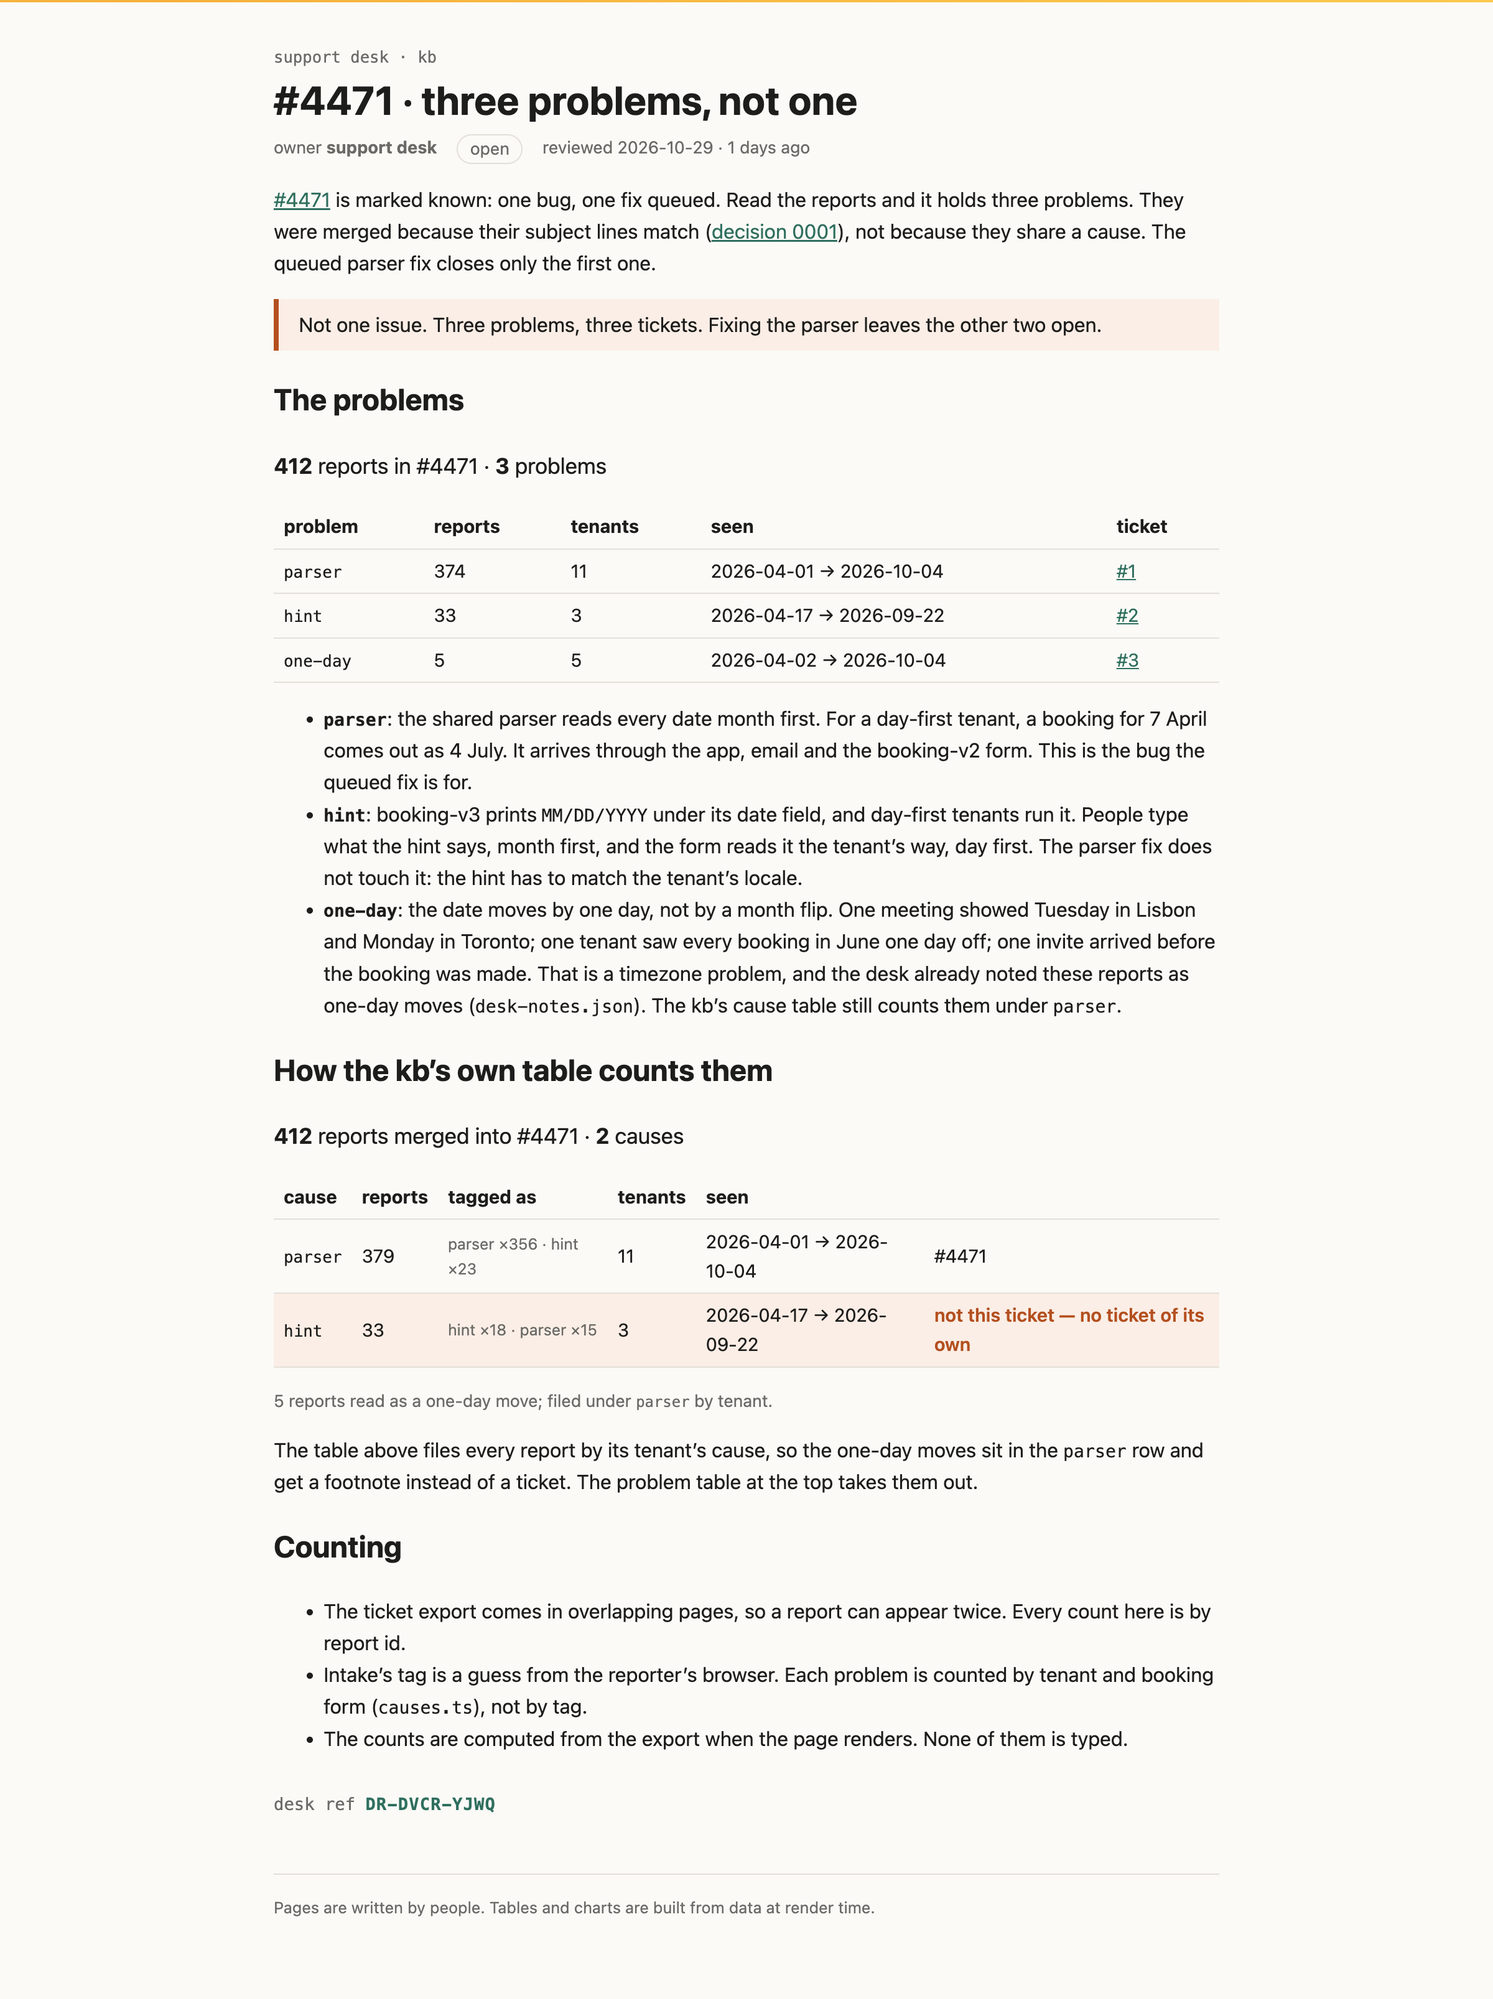
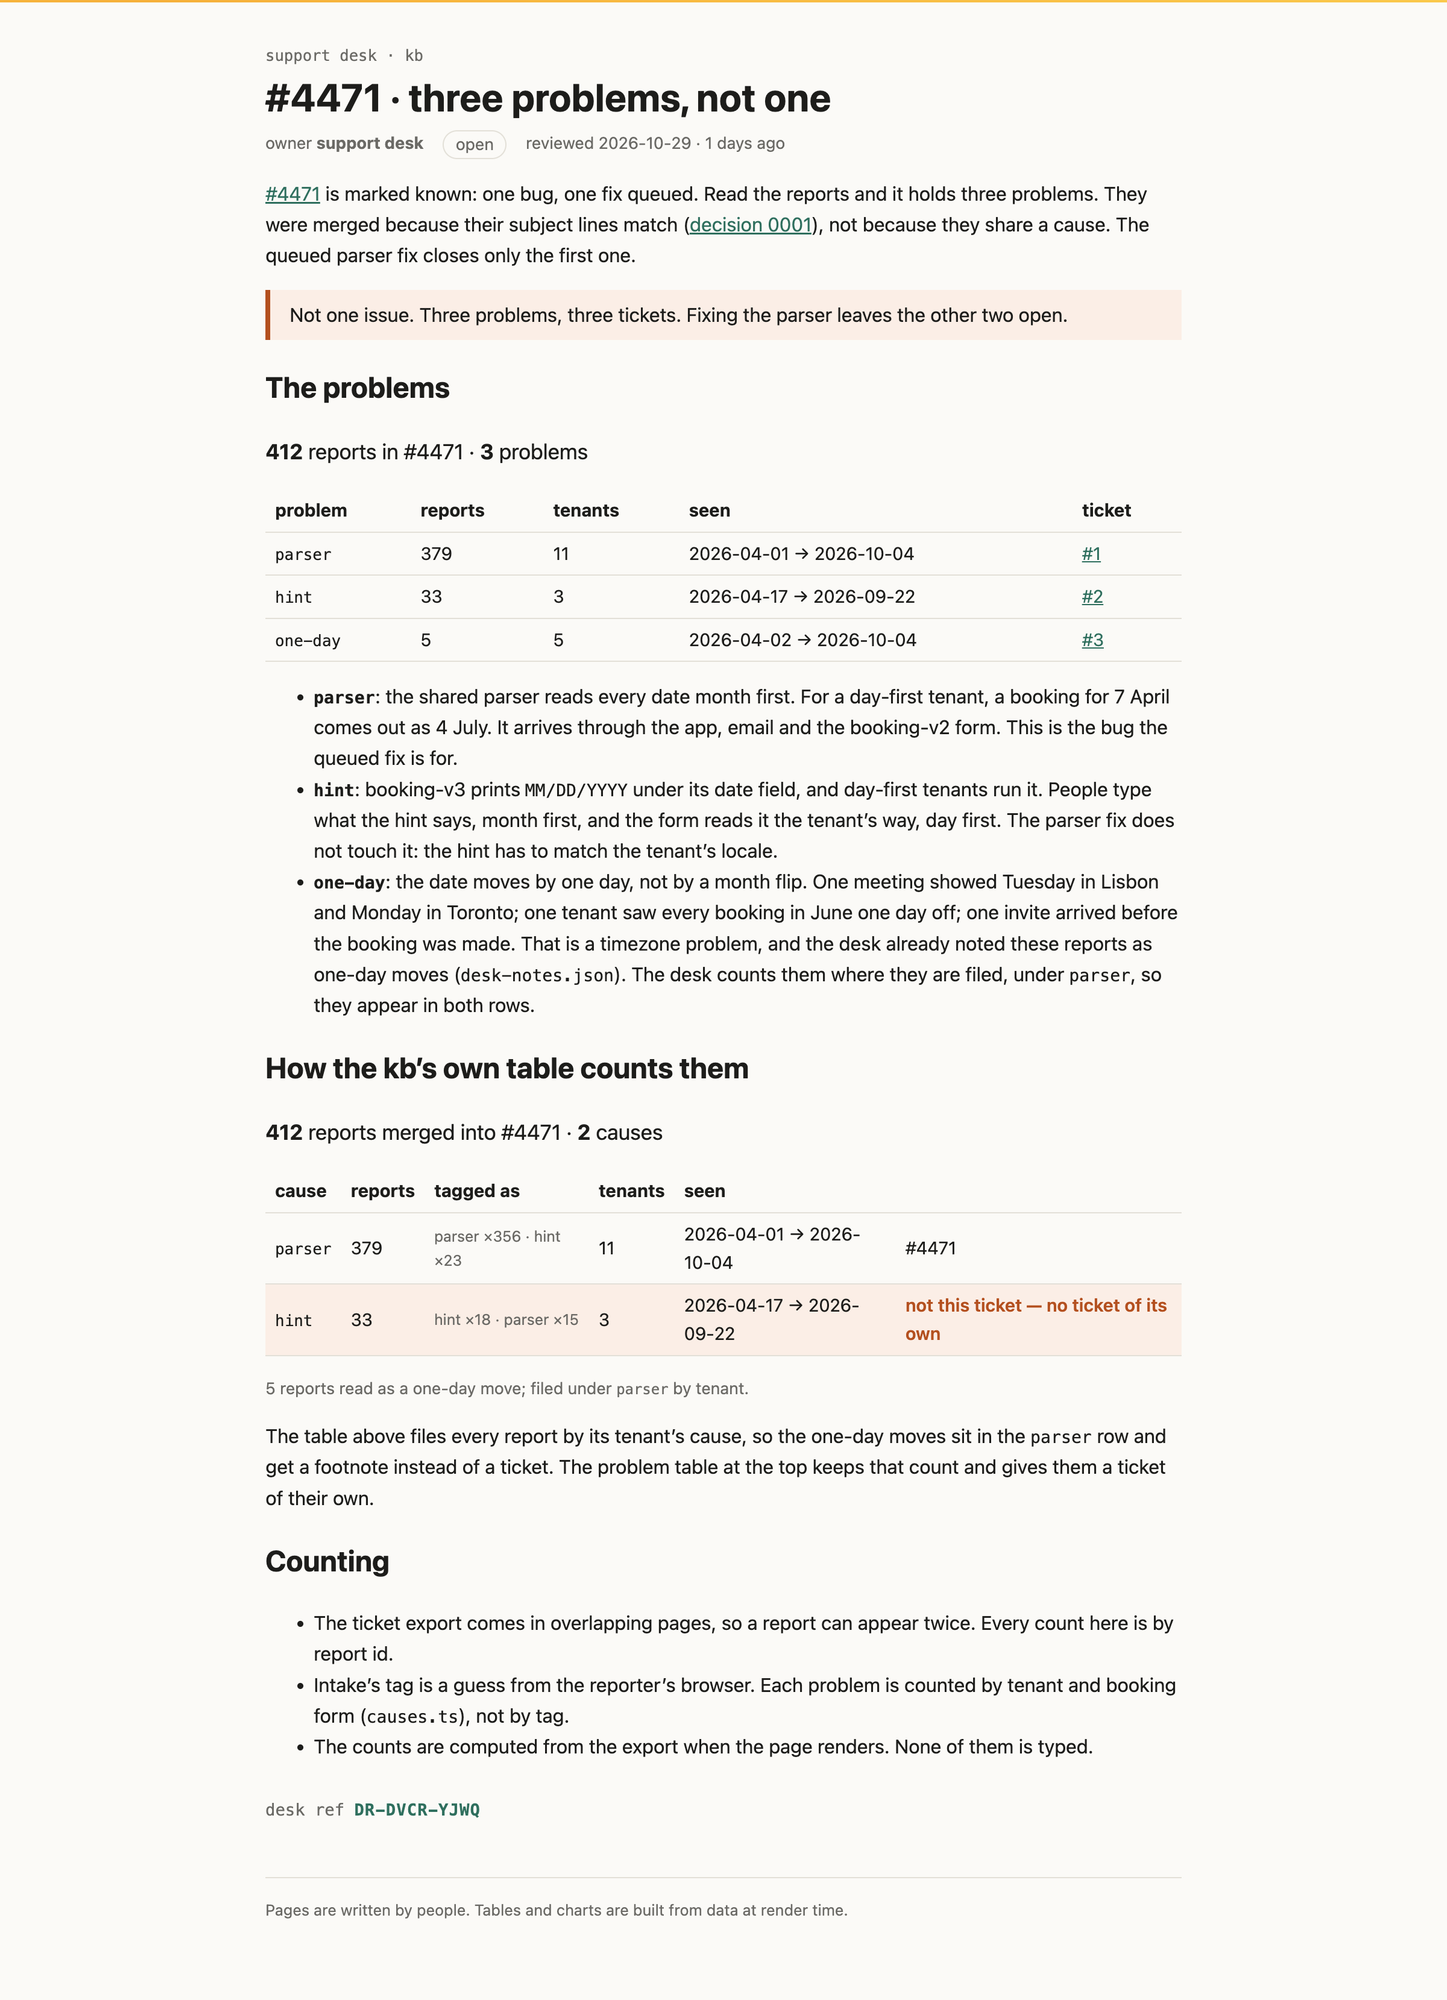
kb: count #4471 problems the desk's way
Parser keeps the one-day moves where they are filed (379), as the kb's
cause table does; the one-day row still counts them on their own (5).

Changed region(s): [[0.1866, 0.031, 0.8086, 0.9615], [0.622, 0.6203, 0.8086, 0.6823], [0.5598, 0.5893, 0.5909, 0.6823]]

diff --git a/rendered/4471-split.html b/rendered/4471-split.html
@@ -33,15 +33,16 @@
     <div style="display: contents"><!--[--><!--[0--><!--[--><!--[--><div class="kb svelte-e2jw2j"><header><a class="crumb svelte-e2jw2j" href="/kb">support desk · kb</a> <h1 class="svelte-e2jw2j">#4471 · three problems, not one</h1> <p class="meta svelte-e2jw2j"><span>owner <b>support desk</b></span> <span class="status open svelte-e2jw2j">open</span> <span class="svelte-e2jw2j">reviewed 2026-10-29 · 1 days ago</span></p></header> <!--[-1--><!--]--> <main><p><a href="/kb/incidents/4471">#4471</a> is marked known: one bug, one fix queued. Read the reports and it
 holds three problems. They were merged because their subject lines match
 (<a href="/kb/decisions/0001-dedupe-by-subject">decision 0001</a>), not because they share a cause. The
-queued parser fix closes only the first one.</p> <aside class="warn svelte-17bri61"><!---->Not one issue. Three problems, three tickets. Fixing the parser leaves the other two open.<!----></aside><!----> <h2>The problems</h2> <p class="sum svelte-1op6c6"><strong>412</strong> reports in #4471 · <strong>3</strong> problems</p> <table><thead><tr><th>problem</th><th>reports</th><th>tenants</th><th>seen</th><th>ticket</th></tr></thead><tbody><!--[--><tr><td><code>parser</code></td><td>374</td><td>11</td><td>2026-04-01 → 2026-10-04</td><td><!--[0--><a href="https://github.com/GabrielSuarezR/support-kb-4471/issues/1">#1</a><!--]--></td></tr><tr><td><code>hint</code></td><td>33</td><td>3</td><td>2026-04-17 → 2026-09-22</td><td><!--[0--><a href="https://github.com/GabrielSuarezR/support-kb-4471/issues/2">#2</a><!--]--></td></tr><tr><td><code>one-day</code></td><td>5</td><td>5</td><td>2026-04-02 → 2026-10-04</td><td><!--[0--><a href="https://github.com/GabrielSuarezR/support-kb-4471/issues/3">#3</a><!--]--></td></tr><!--]--></tbody></table><!----> <ul><li><strong><code>parser</code></strong>: the shared parser reads every date month first. For a day-first tenant, a
+queued parser fix closes only the first one.</p> <aside class="warn svelte-17bri61"><!---->Not one issue. Three problems, three tickets. Fixing the parser leaves the other two open.<!----></aside><!----> <h2>The problems</h2> <p class="sum svelte-1op6c6"><strong>412</strong> reports in #4471 · <strong>3</strong> problems</p> <table><thead><tr><th>problem</th><th>reports</th><th>tenants</th><th>seen</th><th>ticket</th></tr></thead><tbody><!--[--><tr><td><code>parser</code></td><td>379</td><td>11</td><td>2026-04-01 → 2026-10-04</td><td><!--[0--><a href="https://github.com/GabrielSuarezR/support-kb-4471/issues/1">#1</a><!--]--></td></tr><tr><td><code>hint</code></td><td>33</td><td>3</td><td>2026-04-17 → 2026-09-22</td><td><!--[0--><a href="https://github.com/GabrielSuarezR/support-kb-4471/issues/2">#2</a><!--]--></td></tr><tr><td><code>one-day</code></td><td>5</td><td>5</td><td>2026-04-02 → 2026-10-04</td><td><!--[0--><a href="https://github.com/GabrielSuarezR/support-kb-4471/issues/3">#3</a><!--]--></td></tr><!--]--></tbody></table><!----> <ul><li><strong><code>parser</code></strong>: the shared parser reads every date month first. For a day-first tenant, a
 booking for 7 April comes out as 4 July. It arrives through the app, email and the
 booking-v2 form. This is the bug the queued fix is for.</li> <li><strong><code>hint</code></strong>: booking-v3 prints <code>MM/DD/YYYY</code> under its date field, and day-first tenants run it.
 People type what the hint says, month first, and the form reads it the tenant’s way, day
 first. The parser fix does not touch it: the hint has to match the tenant’s locale.</li> <li><strong><code>one-day</code></strong>: the date moves by one day, not by a month flip. One meeting showed Tuesday in
 Lisbon and Monday in Toronto; one tenant saw every booking in June one day off; one invite
 arrived before the booking was made. That is a timezone problem, and the desk already noted
-these reports as one-day moves (<code>desk-notes.json</code>). The kb’s cause table still counts them
-under <code>parser</code>.</li></ul> <h2>How the kb’s own table counts them</h2> <p class="sum svelte-12oyimm"><strong>412</strong> reports merged into #4471 · <strong>2</strong> causes</p> <table><thead><tr><th>cause</th><th>reports</th><th>tagged as</th><th>tenants</th><th>seen</th><th></th></tr></thead><tbody><!--[--><tr class="svelte-12oyimm"><td class="svelte-12oyimm"><code>parser</code></td><td class="svelte-12oyimm">379</td><td class="tags svelte-12oyimm">parser ×356 · hint ×23</td><td class="svelte-12oyimm">11</td><td class="svelte-12oyimm">2026-04-01 → 2026-10-04</td><td class="svelte-12oyimm">#4471</td></tr><tr class="svelte-12oyimm wrong"><td class="svelte-12oyimm"><code>hint</code></td><td class="svelte-12oyimm">33</td><td class="tags svelte-12oyimm">hint ×18 · parser ×15</td><td class="svelte-12oyimm">3</td><td class="svelte-12oyimm">2026-04-17 → 2026-09-22</td><td class="svelte-12oyimm">not this ticket — no ticket of its own</td></tr><!--]--></tbody></table> <!--[--><!--[0--><p class="note svelte-12oyimm">5 reports read as a one-day move; filed under <code>parser</code> by tenant.</p><!--]--><!--[-1--><!--]--><!--]--><!----> <p>The table above files every report by its tenant’s cause, so the one-day moves sit in the <code>parser</code> row and get a footnote instead of a ticket. The problem table at the top takes them out.</p> <h2>Counting</h2> <ul><li>The ticket export comes in overlapping pages, so a report can appear twice. Every count here
+these reports as one-day moves (<code>desk-notes.json</code>). The desk counts them where they are
+filed, under <code>parser</code>, so they appear in both rows.</li></ul> <h2>How the kb’s own table counts them</h2> <p class="sum svelte-12oyimm"><strong>412</strong> reports merged into #4471 · <strong>2</strong> causes</p> <table><thead><tr><th>cause</th><th>reports</th><th>tagged as</th><th>tenants</th><th>seen</th><th></th></tr></thead><tbody><!--[--><tr class="svelte-12oyimm"><td class="svelte-12oyimm"><code>parser</code></td><td class="svelte-12oyimm">379</td><td class="tags svelte-12oyimm">parser ×356 · hint ×23</td><td class="svelte-12oyimm">11</td><td class="svelte-12oyimm">2026-04-01 → 2026-10-04</td><td class="svelte-12oyimm">#4471</td></tr><tr class="svelte-12oyimm wrong"><td class="svelte-12oyimm"><code>hint</code></td><td class="svelte-12oyimm">33</td><td class="tags svelte-12oyimm">hint ×18 · parser ×15</td><td class="svelte-12oyimm">3</td><td class="svelte-12oyimm">2026-04-17 → 2026-09-22</td><td class="svelte-12oyimm">not this ticket — no ticket of its own</td></tr><!--]--></tbody></table> <!--[--><!--[0--><p class="note svelte-12oyimm">5 reports read as a one-day move; filed under <code>parser</code> by tenant.</p><!--]--><!--[-1--><!--]--><!--]--><!----> <p>The table above files every report by its tenant’s cause, so the one-day moves sit in the <code>parser</code> row and get a footnote instead of a ticket. The problem table at the top keeps that
+count and gives them a ticket of their own.</p> <h2>Counting</h2> <ul><li>The ticket export comes in overlapping pages, so a report can appear twice. Every count here
 is by report id.</li> <li>Intake’s tag is a guess from the reporter’s browser. Each problem is counted by tenant and
 booking form (<code>causes.ts</code>), not by tag.</li> <li>The counts are computed from the export when the page renders. None of them is typed.</li></ul> <!--[0--><p class="stamp svelte-1280m42">desk ref <b class="svelte-1280m42">DR-DVCR-YJWQ</b></p><!--]--><!----><!----></main> <footer class="svelte-e2jw2j">Pages are written by people. Tables and charts are built from data at render time.</footer></div><!--]--><!----><!--]--><!--]--> <!--[-1--><!--]--><!--]-->
 			

diff --git a/src/lib/kb/ProblemTable.svelte b/src/lib/kb/ProblemTable.svelte
@@ -4,15 +4,15 @@
   import { groupByCause, uniqueById, type Report } from '#lib/kb/causes';
   import { tenantOf } from '#lib/kb/locales';
 
-  // One row per problem in a merged ticket. CauseTable files the desk's one-day moves under their
-  // tenant's cause; a one-day move is not a month flip, so here it is a problem of its own.
+  // One row per problem in a merged ticket. Causes are counted the desk's way (CauseTable): every
+  // report where it is filed. The desk's one-day moves are not a month flip, so they get a row of
+  // their own as well, and stay counted under their tenant's cause.
   let { ticket, issues = {} }: { ticket: number; issues?: Record<string, string> } = $props();
 
   const merged = $derived(uniqueById(reports as Report[]).filter((r) => r.mergedInto === ticket));
   const oneDay = $derived(merged.filter((r) => notes.oneDayMove.includes(r.id)));
-  const rest = $derived(merged.filter((r) => !notes.oneDayMove.includes(r.id)));
   const rows = $derived([
-    ...groupByCause(rest, tenantOf).map((g) => ({ problem: g.cause as string, reports: g.reports })),
+    ...groupByCause(merged, tenantOf).map((g) => ({ problem: g.cause as string, reports: g.reports })),
     { problem: 'one-day', reports: oneDay },
   ]);
   const tenants = (rs: Report[]) => new Set(rs.map((r) => r.tenant)).size;
